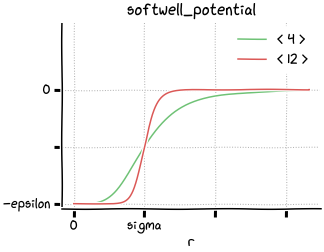
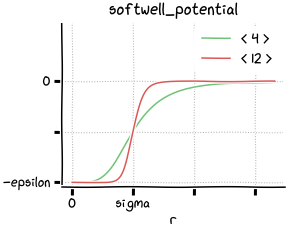
Add docs

diff --git a/docs/_static/css/custom.css b/docs/_static/css/custom.css
@@ -1,5 +1,5 @@
 .math {
-  font-size: 75%;
+  font-size: 80%;
 }
 
 a.reference > code.xref {
@@ -10,4 +10,5 @@ a.reference > code.xref {
 
 .section {
   clear: both;
+  margin-bottom: 3em;
 }

diff --git a/docs/graphs.py b/docs/graphs.py
@@ -2,7 +2,7 @@ import matplotlib.pyplot as plt
 import numpy as np
 
 
-FIGURE_SIZE = (4.5, 3.5)
+FIGURE_SIZE = (4, 3.2)
 FIGURE_DPI = 72
 
 COLOR_PALETTE = ["xkcd:soft green", "xkcd:pastel red"]

diff --git a/docs/potentials.rst b/docs/potentials.rst
@@ -1,56 +1,62 @@
-Potential energy
-================
+Potentials
+==========
 
 Common interface
 ----------------
 
-Every potential class is a plain-old struct of parameters and provides two
-functions :code:`evaluate_energy` and :code:`evaluate_force`.
+MicroMD provides various pairwise potential functions as classes. Every
+potential class is a plain-old struct of its parameters, and provides two
+member functions :code:`evaluate_energy` and :code:`evaluate_force`.
 
 .. code:: cpp
 
-   struct binary_potential
-   {
-       ...
-
-       md::scalar evaluate_energy(md::vector r) const;
-       md::vector evaluate_force(md::vector r) const;
+   // Create a Lennard-Jones potential with these parameters.
+   md::lennard_jones_potential pot = {
+       .epsilon = 1,
+       .sigma   = 0.1
    };
+   
+   // Evaluate the energy e and the force F at distance r.
+   md::vector r = {0.1, 0.2, 0.3};
+   md::scalar e = pot.evaluate_energy(r);
+   md::vector F = pot.evaluate_force(r);
+
+Potential classes are designed to be lightweight. Use of a potential class
+should be inlined by the compiler as if you have coded a raw formula of the
+energy or the force.
 
 
-Potentials
-----------
+Potential classes
+-----------------
+
+MicroMD defines these potential classes in the namespace :code:`md`:
 
 .. list-table::
 
    * - `constant_potential`_
-     - constant energy
+     - Constant energy
 
    * - `harmonic_potential`_
-     - harmonic oscillator
+     - Harmonic spring
 
    * - `spring_potential`_
-     - harmonic oscillator
+     - Harmonic spring with shifted center
 
    * - `semispring_potential`_
-     - harmonic oscillator
+     - Harmonic spring without repulsive part
 
    * - `lennard_jones_potential`_
      - Lennard-Jones 12-6
 
-   * - `wca_potential`_
-     - Lennard-Jones 12-6 with cut-off at the energy minimum
+   * - `soft_lennard_jones_potential`_
+     - Modified, non-diverging Lennard-Jones 12-6
 
    * - `softcore_potential`_
-     - soft-core repulsion
+     - Soft-core repulsion
 
    * - `softwell_potential`_
-     - soft-well attraction
+     - Soft-well attraction
 
-
-
-References
-----------
 
 constant_potential
 ^^^^^^^^^^^^^^^^^^
@@ -62,6 +68,13 @@ A potential with constant energy:
 
 .. math::
    u(\boldsymbol{r}) = \varepsilon
+
+.. code:: cpp
+
+   struct constant_potential
+   {
+       md::scalar energy = 0.0; // epsilon
+   }
 
 
 harmonic_potential
@@ -75,6 +88,13 @@ A long-range, attractive potential of the form:
 .. math::
    u(\boldsymbol{r}) = \frac{K}{2} r^2
 
+.. code:: cpp
+
+   struct harmonic_potential
+   {
+       md::scalar spring_constant = 1.0; // K
+   }
+
 
 spring_potential
 ^^^^^^^^^^^^^^^^
@@ -86,6 +106,18 @@ A long-range, attractive potential of the form:
 
 .. math::
    u(\boldsymbol{r}) = \frac{K}{2} \left( r - b \right)^2
+
+.. code:: cpp
+
+   struct spring_potential
+   {
+       md::scalar spring_constant      = 1.0; // K
+       md::scalar equilibrium_distance = 0.0; // b
+   }
+
+The force calculation of :code:`spring_potential` involves a division, which is
+computationally expensive. Prefer :code:`harmonic_potential` if you are sure
+that the b parameter is zero.
 
 
 semispring_potential
@@ -101,6 +133,14 @@ A long-range, attractive potential of the form:
    \qquad
    \left( r > b \right)
 
+.. code:: cpp
+
+   struct semispring_potential
+   {
+       md::scalar spring_constant      = 1.0; // K
+       md::scalar equilibrium_distance = 0.0; // b
+   }
+
 
 lennard_jones_potential
 ^^^^^^^^^^^^^^^^^^^^^^^
@@ -114,8 +154,20 @@ A long-range potential of the form:
    u(\boldsymbol{r})
      = \varepsilon \Big(
          \Big( \frac{\sigma}{r} \Big)^{12} -
-         \Big( \frac{\sigma}{r} \Big)^6
+         2 \Big( \frac{\sigma}{r} \Big)^6
        \Big)
+
+.. code:: cpp
+
+   struct lennard_jones_potential
+   {
+       md::scalar epsilon = 1.0;
+       md::scalar sigma   = 1.0;
+   }
+
+The potential energy diverges at r = 0. Use of this potential in a molecular
+dynamics simulation can cause numerical instability (NaNs and infinities). In
+that case you may want to use :code:`soft_lennard_jones_potential` instead.
 
 
 soft_lennard_jones_potential
@@ -131,22 +183,18 @@ A long-range potential of the form:
      = \varepsilon \left(
        \frac{k + 1}{k + (r / \sigma)^6}
        - 1
-     \right)^2
+     \right)^2 - \varepsilon
 
+.. code:: cpp
 
-wca_potential
-^^^^^^^^^^^^^
+   struct soft_lennard_jones_potential
+   {
+       md::scalar softness = 0.1; // k
+       md::scalar epsilon  = 1.0;
+       md::scalar sigma    = 1.0;
+   }
 
-A short-range, repulsive potential of the form:
-
-.. math::
-   u(\boldsymbol{r})
-     = \varepsilon \Big(
-         \Big( \frac{\sigma}{r} \Big)^{12} -
-         \Big( \frac{\sigma}{r} \Big)^6
-       \Big)
-   \quad
-   \left( r < \sigma \right)
+This potential approaches the Lennard-Jones 12-6 potential as k gets to zero.
 
 
 softcore_potential
@@ -155,7 +203,7 @@ softcore_potential
 .. figure:: _static/img/softcore_potential.png
    :align: right
 
-A short-range, repulsive potential of the form:
+A bell-shaped repulsive potential of the form:
 
 .. math::
    u(\boldsymbol{r})
@@ -166,6 +214,19 @@ A short-range, repulsive potential of the form:
    \quad
    \left( r < \sigma \right)
 
+.. code:: cpp
+
+   template<int P, int Q>
+   struct softcore_potential
+   {
+       md::scalar overlap_energy  = 1.0; // epsilon
+       md::scalar cutoff_distance = 1.0; // sigma
+   }
+
+The potential becomes fatter as p gets larger. Also the cutoff at sigma becomes
+smoother as q gets larger. The function approximates the gaussian function
+fairly well when p = 2 and q = 3 or 4.
+
 
 softwell_potential
 ^^^^^^^^^^^^^^^^^^
@@ -173,7 +234,7 @@ softwell_potential
 .. figure:: _static/img/softwell_potential.png
    :align: right
 
-A long-range, attractive potential of the form:
+A well-like attractive potential of the form:
 
 .. math::
    u(\boldsymbol{r})
@@ -181,8 +242,50 @@ A long-range, attractive potential of the form:
 
 .. code:: cpp
 
-   md::softwell_potential<4> pot = {
-       .energy         = 2.0,   // epsilon
-       .decay_distance = 0.5    // sigma
-   };
+   template<int P>
+   struct softwell_potential
+   {
+       md::scalar energy         = 1.0; // epsilon
+       md::scalar decay_distance = 1.0; // sigma
+   }
 
+It works as an energy barrier. Larger p makes the barrier steeper.
+
+
+Linear combination
+------------------
+
+All the potential classes in the :code:`md` namespace support scalar
+multiplication and addition:
+
+.. code:: cpp
+
+   md::lennard_jones_potential lennard_jones = {
+       .epsilon = 1,
+       .sigma   = 0.1
+   };
+   md::harmonic_potential harmonic = {
+       .spring_constant = 10
+   };
+   
+   // Linear combination of Lennard-Jones and harmonic potentials.
+   auto pot = 0.5 * lennard_jones + harmonic;
+   
+   // The resulting potential object is usable just like other ones.
+   md::vector r = {0.1, 0.2, 0.3};
+   md::scalar e = pot.evaluate_energy(r);
+   md::vector F = pot.evaluate_force(r);
+
+
+Writing a custom potential
+--------------------------
+
+.. code:: cpp
+
+   struct my_custom_potential
+   {
+       md::scalar spring_constant = 1;
+
+       md::scalar evaluate_energy(md::vector r) const;
+       md::vector evaluate_force(md::vector r) const;
+   };

diff --git a/docs/index.rst b/docs/index.rst
@@ -5,12 +5,9 @@ MicroMD documentation
    :maxdepth: 2
    :caption: Contents:
 
+   system
+   forcefield
+   forcefield_templates
    potentials
+   simulations
 
-
-Indices and tables
-==================
-
-* :ref:`genindex`
-* :ref:`modindex`
-* :ref:`search`

diff --git a/docs/forcefield_templates.rst b/docs/forcefield_templates.rst
@@ -1,0 +1,12 @@
+Forcefield Templates
+====================
+
+Common interface
+----------------
+
+Forcefield templates
+--------------------
+
+Writing a custom forcefield template
+------------------------------------
+

diff --git a/docs/simulations.rst b/docs/simulations.rst
@@ -1,0 +1,6 @@
+Simulations
+===========
+
+- :code:`md::simulate_newtonian_dynamics`
+- :code:`md::simulate_brownian_dynamics`
+

diff --git a/docs/system.rst b/docs/system.rst
@@ -1,0 +1,12 @@
+System
+======
+
+Particles
+---------
+
+Attributes
+----------
+
+Forcefield
+-----------
+

diff --git a/docs/forcefield.rst b/docs/forcefield.rst
@@ -1,0 +1,2 @@
+Forcefield
+==========
